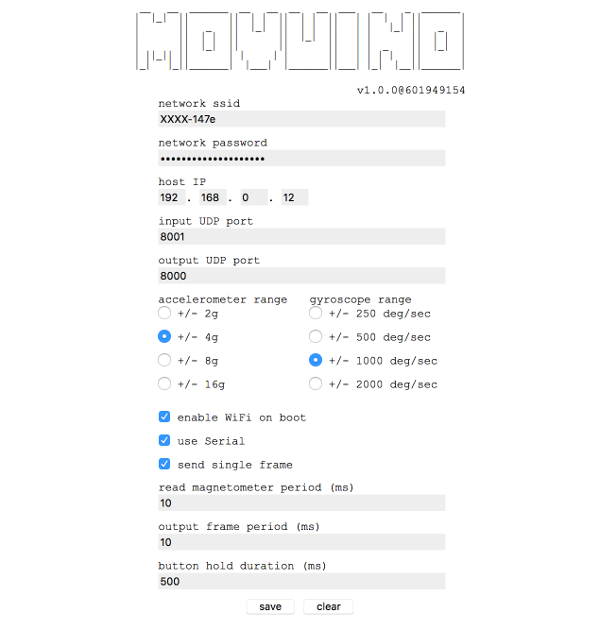
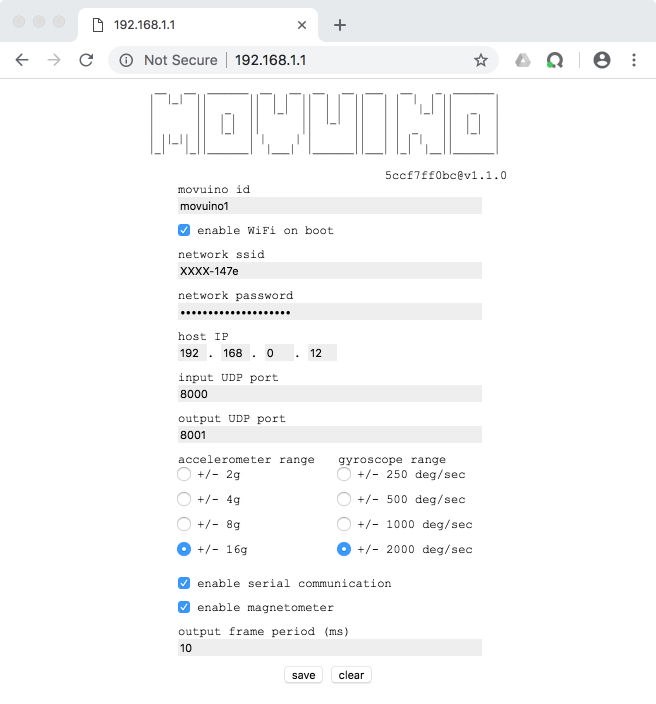
updated examples and doc

diff --git a/README.md b/README.md
@@ -1,6 +1,6 @@
 # Movuino firmware
 
-Firmware for the Movuino wireless sensor board.
+Firmware for the Movuino WiFi board.
 
 ## Requirements
 
@@ -34,75 +34,73 @@ Install [CP210x USB to UART Bridge VCP Drivers](https://www.silabs.com/products/
 
 Once you selected the right port, you should be able to compile and upload the firmware.
 
-## OSC namespace
+## OSC namespaces
 
-The namespace is the same for serial and wifi connections.
-OSC messages are transmitted in both directions by any possible mean, using SLIP encoded Serial and/or WiFi UDP (see examples).
-OSC routes are defined in the file `globals.h`, and the routing mostly happens in the `Router::routeOSCMessage` method, implemented in `Router.cpp`.
+The Open Sound Control protocol is used for both serial and wifi communication. Messages are transmitted using either SLIP encoded serial or wifi UDP (see examples).
+OSC routes are defined in the file `firmware/globals.h`, and the routing mostly happens in the `Router::routeOSCMessage` method, implemented in `firmware/Router.cpp`.
 
-#### input
+#### configuration namespace
 
-* `/hello`
-* `/movuino/<boardID>/wifi/enable <onOff(bool)>`
-* `/movuino/<boardID>/wifi/set <ssid(string)> [ <password(string)> ] <hostIP(string)>`
-* `/movuino/<boardID>/wifi/get`
-* `/movuino/<boardID>/ports/set  <inputUDPPort(int)> <outputUDPPort(int)>`
-* `/movuino/<boardID>/ports/get`
-* `/movuino/<boardID>/range/set <accelRange(int)> <gyroRange(int)>`
-* `/movuino/<boardID>/range/get`
-* `/movuino/<boardID>/config/set <useSerial(bool)> <sendSingleFrame(bool)> <readMagPeriod(int)> <outputFramePeriod(int)> <buttonHoldDuration(int)>`
-* `/movuino/<boardID>/config/get`
-* `/movuino/<boardID>/vibroPulse <onDuration(int)> <offDuration(int)> <times(int)>`
-* `/movuino/<boardID>/vibroNow <onOff(bool)>`
+The configuration is done via the serial connection only (an alternative is to use the Movuino in AP mode, see below), and has a specific OSC namespace. The Movuino processes every incoming message and always sends back a response or the message itself as an acknowledgement :
 
-Movuino responds to `/wifi/enable` and all the `/xxxx/set` messages by forwarding them back with their original values to the sender as an acknowledgement.
+* `/hello` -> `/hello movuino <movuino_id> <wifi_state> <movuino_ip> <movuino_uuid> <firmware_version>`
+* `/id/get` -> `/id/get <movuino_id>`
+* `/id/set <movuino_id>` -> `/id/set <movuino_id>`
+* `/wifi/get` -> `/wifi/get <network_ssid> [<optional_password>] <host_ip>`
+* `/wifi/set <network_ssid> [<optional_password>] <host_ip>` -> `/wifi/set <network_ssid> [<optional_password>] <host_ip>`
+* `/ports/get` -> `/ports/get <input_UDP_port> <output_UDP_port>`
+* `/ports/set <input_UDP_port> <output_UDP_port>` -> `/ports/set <input_UDP_port> <output_UDP_port>`
+* `/range/get` -> `/range/get <accel_range> <gyro_range>`
+* `/range/set <accel_range> <gyro_range>` -> `/range/set <accel_range> <gyro_range>`
+* `/frameperiod/get` -> `/frameperiod/get <frame_period>`
+* `/frameperiod/set <frame_period>` -> `/frameperiod/set <frame_period>`
+* `/wifi/enable <on_off>` -> `/wifi/enable <on_off>`
+* `/serial/enable <on_off>` -> `/serial/enable <on_off>`
+* `/magneto/enable <on_off>` -> `/magneto/enable <on_off>`
 
-#### output
+A last message is used to allow for monitoring of the wifi connection state via serial, which is fired automatically whenever the wifi state changes : `/wifi/state <wifi_state>`.
 
-Acknowledgement messages apart, the output namespace is :
+#### communication namespace
 
-* `/hello "movuino" <boardID(string)> <firmwareVersion(string)> <wifiConnectionState(int)> <boardIP(string)>` 
-* `/movuino/<boardID>/wifi/state <wifiConnectionState(int)> <boardIP(string)>`
-* `/movuino/<boardID>/wifi/get <ssid(string)> <password(string)> <hostIP(string)>`
-* `/movuino/<boardID>/ports/get <inputUDPPort(int)> <outputUDPPort(int)>`
-* `/movuino/<boardID>/range/get <accelRange(int)> <gyroRange(int)>`
-* `/movuino/<boardID>/config/get <useSerial(bool)> <sendSingleFrame(bool)> <readMagPeriod(int)> <outputFramePeriod(int)> <buttonHoldDuration(int)>`
-* `/movuino/<boardID>/sensors <ax(float)> <ay(float)> <az(float)> <gx(float)> <gy(float)> <gz(float)> <mx(float)> <my(float)> <mz(float)>`
-* `/movuino/<boardID>/button <buttonState(int)>`
-* `/movuino/<boardID>/frame <ax(float)> <ay(float)> <az(float)> <gx(float)> <gy(float)> <gz(float)> <mx(float)> <my(float)> <mz(float)> <buttonState(int)> <vibratorState(bool)>`
+The communication namespace consists in 3 addresses.
 
-`/hello` and all the `/xxxx/get` messages are responses to the corresponding input messages.
+##### input
 
-When the `sendSingleFrame` option is enabled, sensor values and the button state are sent together within the `/frame` message.
-When `sendSingleFrame` is disabled, sensor values are sent via the `/sensors` message, and the button state is sent via the `/button` message on value change only.
-The `/sensors` and `/frame` messages are always sent at a frequency of 1000 * `outputFramePeriod` Hz.
+* The `/vibro/now <on_off>` message enables or disables the vibrator.
+* The `/vibro/pulse <on_duration> <off_duration> <nb_of_pulses>` message trigs a series of vibrations. If `<nb_of_pulses>` equals `-1`, The pulse goes on until a new message with another value is received.
+
+##### output
+
+* The `/movuino <movuino_id> <acc_x> <acc_y> <acc_z> <gyr_x> <gyr_y> <gyr_z> <mag_x> <mag_y> <mag_z> <button_state> <vibrator_state>` message is output every `<frame_period>` milliseconds.
 
 #### notes
 
-* All the `/xxxx/set` input messages update some parameters that are automatically stored to a local configuration file. This configuration file is always loaded on boot, so all modifications are always persistent.
-* Parameters of type `bool` use int values (`0` for `false` and `1` for `true`).
-* `hostIP` has the form `a.b.c.d`, where `a`, `b`, `c` and `d` are integer values within the [0;255] range.
-* `accelRange` can take the following values
+* All `/xxxx/set` messages, as well as `/wifi/enable`, `/serial/enable` and `/magneto/enable`, define new configuration parameter values that are automatically persisted.
+* The `/wifi/enable` message starts (or stops) the wifi connection using the current wifi settings. The last stored value will be used to determine whether to start the wifi connection at boot time or not.
+* The `/serial/enable` message never disables the serial connection. It only allows to use the communication namespace via serial (which can cause the OSC output rate to drop if the frame period parameter has a value of less than 10ms).
+* The `/magneto/enable` message enables reading the magnetometer values. When it is disabled, the magnetometer values are all set to zero.
+* `<host_ip>` has the form `a.b.c.d`, where `a`, `b`, `c` and `d` are integer values within the [0;255] range.
+* `<accel_range>` can take the following values
     * `0` (+/- 2g)
     * `1` (+/- 4g)
     * `2` (+/- 8g)
     * `3` (+/- 16g)
-* `gyroRange` can take the following values
+* `<gyro_range>` can take the following values
     * `0` (+/- 250 deg/sec)
     * `1` (+/- 500 deg/sec)
     * `2` (+/- 1000 deg/sec)
     * `3` (+/- 2000 deg/sec)
-* All the parameters named `xxxPeriod` and `xxxDuration` are expressed in milliseconds.
-* If the specified `times` parameter in the `/vibroPulse` message equals `-1`, the pulse will go on forever until a new message with another value is received
-* `/wifi/state` is the only message not sent via WiFi, as it gives the WiFi connection state in real-time. It can take the following values
+* `<wifi_state>` can take the following values
     * `0` (disconnected)
     * `1` (connected)
     * `2` (connecting)
-* `buttonState` can take the following values
+* `<button_state>` can take the following values
     * `0` (released)
     * `1` (pressed)
-    * `2` (pressing for longer than `buttonHoldDuration` ms)
-* For the time being webSocket transmission of OSC messages is not implemented, so if there is a lot of traffic on the network, it is advised to enable `sendSingleFrame` to avoid losing button state messages, and to configure the board through serial connection for the same reason.
+    * `2` (pressing for longer than 1 second)
+* `<vibrator_state>` can take the following values
+    * `0` (not vibrating)
+    * `1` (vibrating)
 
 ## AP mode
 
@@ -118,7 +116,6 @@ The movuino will create a network named `movuino-xxxxxxxxxx`. Connect to this ne
 ## TODO's
 
 * Add websocket support to OSC messages
-* Simplify API
 * Add more vibration modes
 * ...
 
